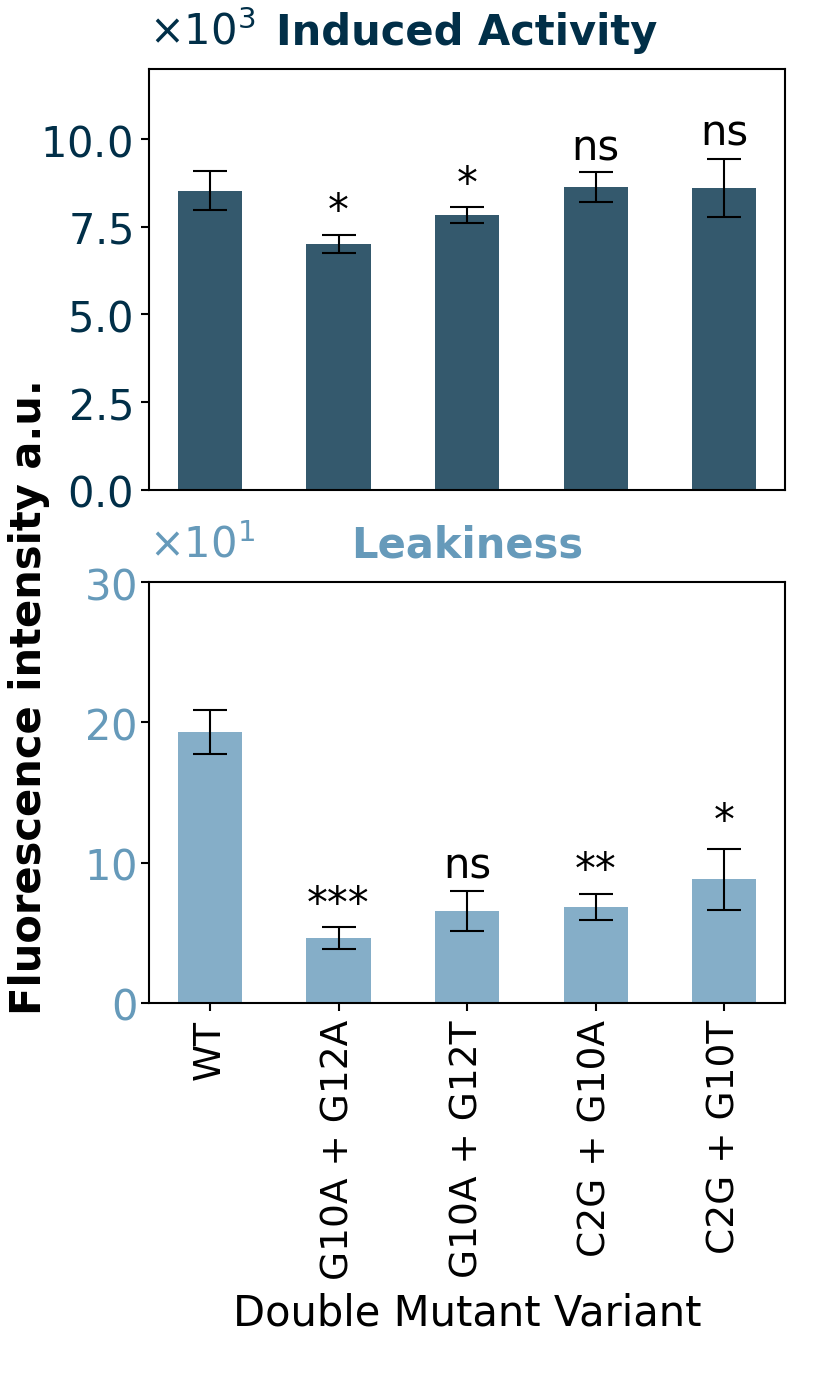
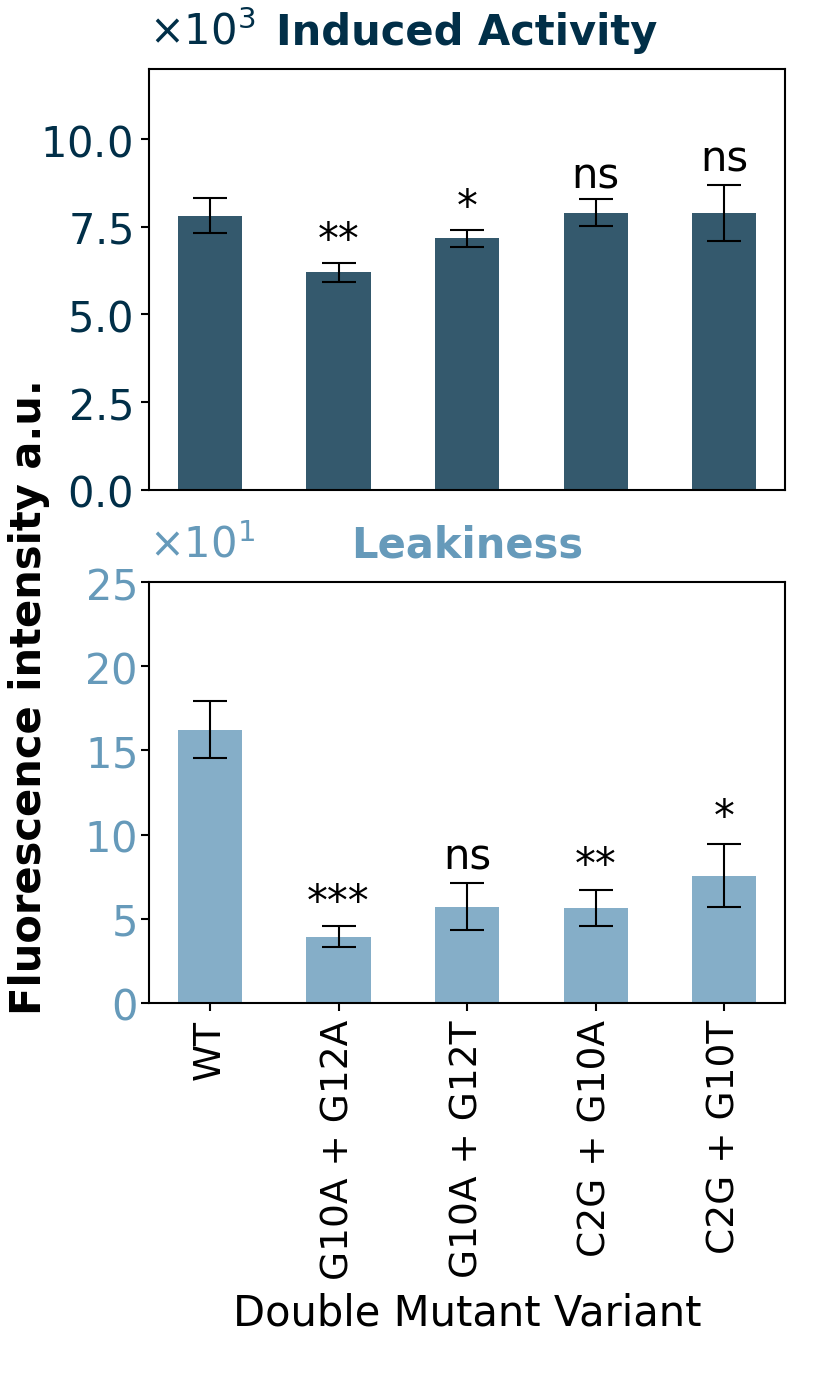
Initial commit

diff --git a/F01f_double_mutant_activity_plot_vertical.py b/F01f_double_mutant_activity_plot_vertical.py
@@ -105,7 +105,7 @@ ax2.tick_params(axis='y', labelcolor='#669aba', pad=0.5)
 ax2.tick_params(axis='x', pad=1)
 ax2.set_title('Leakiness', color='#669aba', fontweight='bold', pad=3)
 ax2.set_xlabel('Double Mutant Variant', labelpad=1.5)  # Only bottom panel has x-label
-ax2.set_ylim(0, 300)
+ax2.set_ylim(0, 250)
 formatter2 = ScalarFormatter(useMathText=True)
 formatter2.set_scientific(True)
 formatter2.set_powerlimits((1, 1))
